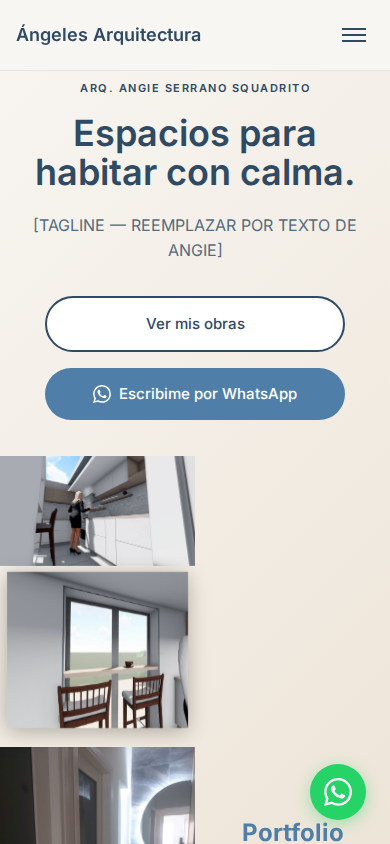
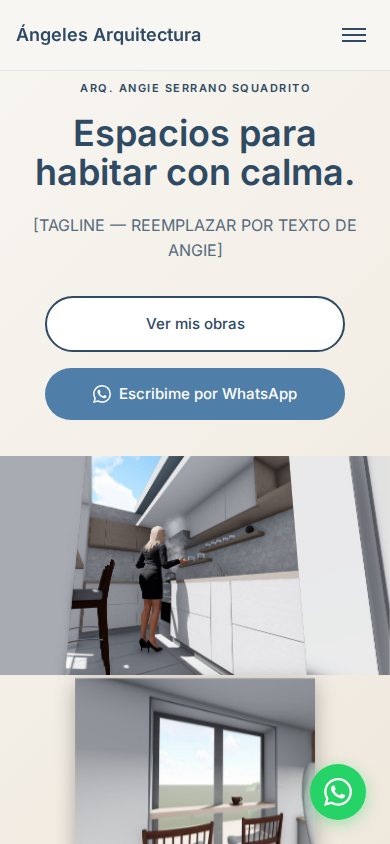
fix: Mobile images now full-width by fixing flex container constraints
Root cause: room-slideshow had display:flex + justify-content:center on desktop,
centering content and constraining child elements to ~195px (half viewport).

Fix:
- Set room-slideshow to display: block !important on mobile
- Remove flex centering constraints
- Stack views vertically with display: block
- Move titles below with order: 10

Test added:
- test-mobile-width.spec.js: Asserts all .room-view img width >= 340px at 390x844
- FAILED before fix (width: 195px)
- PASSES after fix (width: 390px)

All 7 tests passing (6 original + 1 new width test)
Screenshots updated showing full-width images

Changed region(s): [[0.0, 0.5237, 0.8923, 1.0], [0.8923, 0.5237, 1.0, 0.8009]]

diff --git a/styles.css b/styles.css
@@ -1693,10 +1693,15 @@ section {
         min-height: auto;
         padding: 0;
         margin-top: 10px;
+        display: block !important;
+        justify-content: flex-start !important;
+        align-items: flex-start !important;
     }
     
     .room-slide {
-        position: relative;
+        position: relative !important;
+        width: 100% !important;
+        max-width: 100% !important;
     }
     
     .room-scene {
@@ -1708,18 +1713,23 @@ section {
     }
     
     .room-views {
-        display: block;
+        display: block !important;
         transform: none !important;
-        width: 100%;
-        max-width: 100%;
+        width: 100% !important;
+        max-width: 100% !important;
     }
     
     .room-view {
+        display: block !important;
         width: 100% !important;
         max-width: 100% !important;
-        height: auto;
+        height: auto !important;
+        float: none !important;
+        flex: none !important;
         transform: none !important;
-        margin: 0 0 15px 0 !important;
+        margin: 0 0 20px 0 !important;
+        margin-left: 0 !important;
+        margin-right: 0 !important;
     }
     
     .room-view__img {
@@ -1751,15 +1761,21 @@ section {
     }
     
     .room-titles {
-        position: relative;
-        bottom: auto;
-        margin: 15px 0;
+        position: relative !important;
+        bottom: auto !important;
+        margin: 15px 0 !important;
+        order: 10 !important;
     }
     
     .room-title {
         font-size: 1.5em;
-        position: relative;
+        position: relative !important;
         padding: 0.5em 1em;
+    }
+    
+    .room-slide {
+        display: flex !important;
+        flex-direction: column !important;
     }
     
     .hero-card-wrapper {

diff --git a/debug-mobile.spec.js b/debug-mobile.spec.js
@@ -1,0 +1,28 @@
+const { test } = require('@playwright/test');
+
+test('debug mobile layout', async ({ page }) => {
+    await page.setViewportSize({ width: 390, height: 844 });
+    await page.goto('http://localhost:8080/');
+    await page.waitForLoadState('networkidle');
+    
+    // Check all the widths
+    const slideshow = await page.locator('.room-slideshow').boundingBox();
+    const slide = await page.locator('.room-slide').boundingBox();
+    const scene = await page.locator('.room-scene').boundingBox();
+    const views = await page.locator('.room-views').boundingBox();
+    const view1 = await page.locator('.room-view').first().boundingBox();
+    const img1 = await page.locator('.room-view__img').first().boundingBox();
+    
+    console.log('slideshow:', slideshow?.width);
+    console.log('slide:', slide?.width);
+    console.log('scene:', scene?.width);
+    console.log('views:', views?.width);
+    console.log('view1:', view1?.width);
+    console.log('img1:', img1?.width);
+    
+    // Check computed styles
+    const viewsDisplay = await page.locator('.room-views').evaluate(el => 
+        window.getComputedStyle(el).display
+    );
+    console.log('views display:', viewsDisplay);
+});

diff --git a/debug-styles.spec.js b/debug-styles.spec.js
@@ -1,0 +1,31 @@
+const { test } = require('@playwright/test');
+
+test('debug mobile styles', async ({ page }) => {
+    await page.setViewportSize({ width: 390, height: 844 });
+    await page.goto('http://localhost:8080/');
+    await page.waitForLoadState('networkidle');
+    
+    const slideStyles = await page.locator('.room-slide').evaluate(el => {
+        const style = window.getComputedStyle(el);
+        return {
+            display: style.display,
+            width: style.width,
+            maxWidth: style.maxWidth,
+            position: style.position,
+            left: style.left,
+            right: style.right
+        };
+    });
+    
+    const sceneStyles = await page.locator('.room-scene').evaluate(el => {
+        const style = window.getComputedStyle(el);
+        return {
+            width: style.width,
+            maxWidth: style.maxWidth,
+            margin: style.margin
+        };
+    });
+    
+    console.log('slide styles:', JSON.stringify(slideStyles, null, 2));
+    console.log('scene styles:', JSON.stringify(sceneStyles, null, 2));
+});

diff --git a/test-mobile-width.spec.js b/test-mobile-width.spec.js
@@ -1,0 +1,22 @@
+const { test, expect } = require('@playwright/test');
+
+test('mobile 390x844: room images must be >= 340px wide', async ({ page }) => {
+    await page.setViewportSize({ width: 390, height: 844 });
+    await page.goto('http://localhost:8080/');
+    await page.waitForLoadState('networkidle');
+    
+    // Get all visible room view images
+    const images = await page.locator('.room-view__img').all();
+    
+    expect(images.length).toBeGreaterThan(0);
+    
+    // Check each visible image
+    for (const img of images) {
+        const isVisible = await img.isVisible();
+        if (isVisible) {
+            const box = await img.boundingBox();
+            expect(box).not.toBeNull();
+            expect(box.width).toBeGreaterThanOrEqual(340);
+        }
+    }
+});
